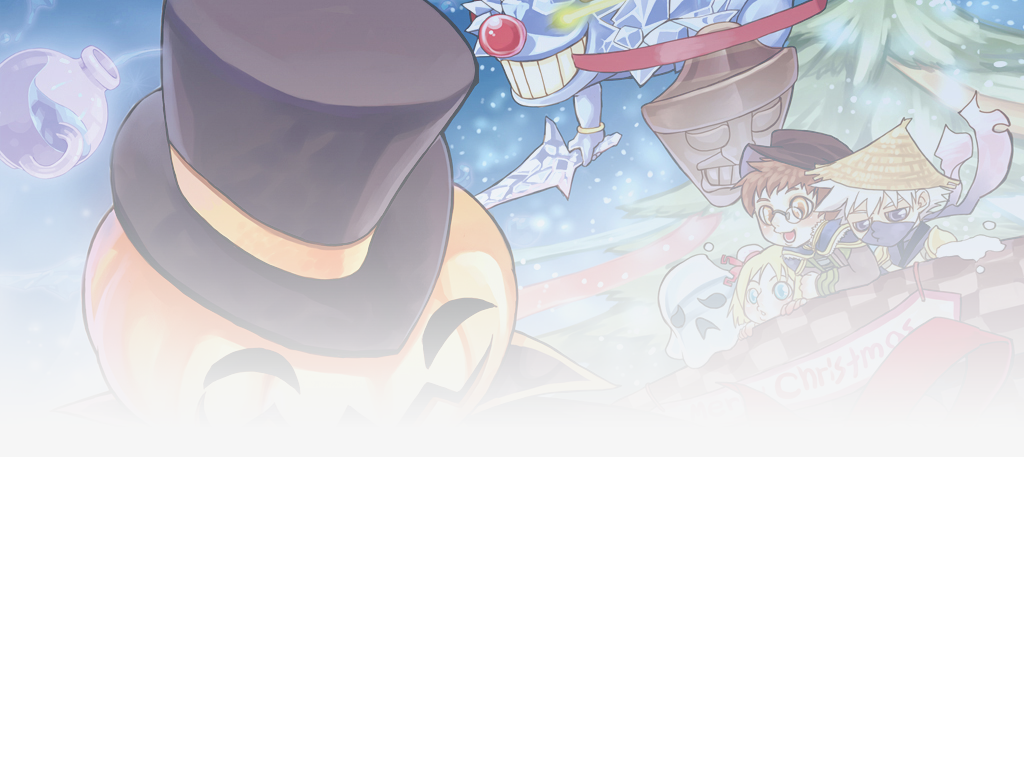
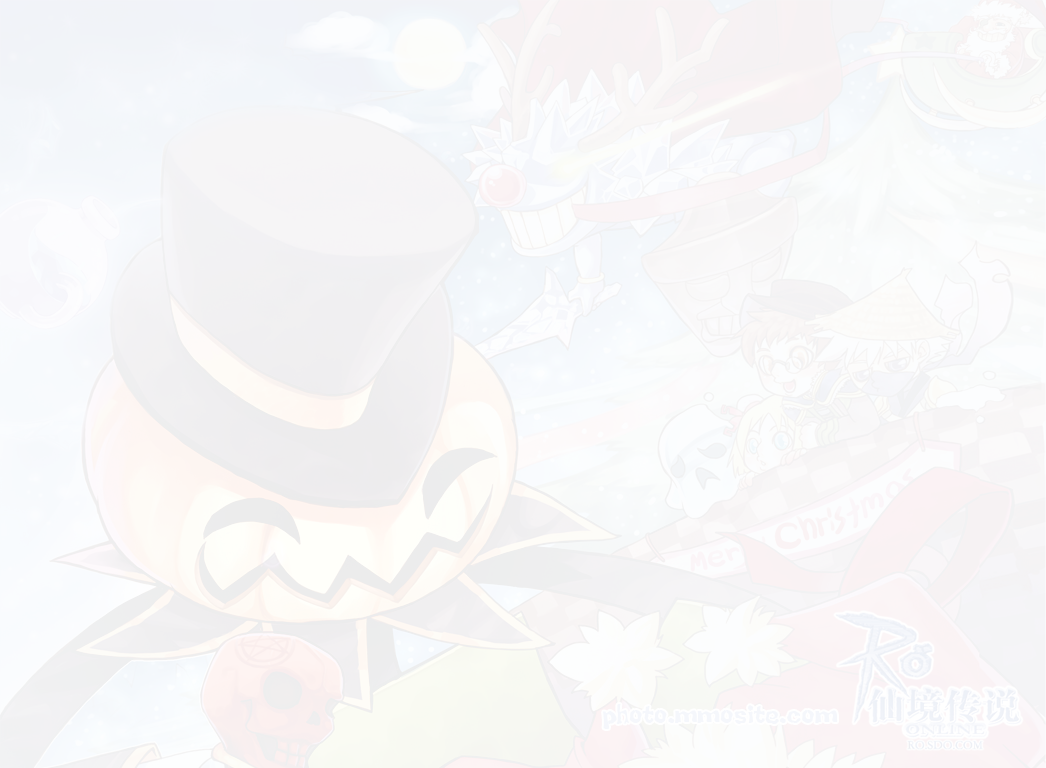
BG SUB-HEader

diff --git a/index.html b/index.html
@@ -107,9 +107,9 @@
 <!-- Page Contents -->
 <div class="pusher" id="scene">
   <div class=" ui inverted vertical masthead center aligned segment topinhocorta">
-	<img class="ui fluid image topinho regulabordas layer" data-depth="0.20" src="http://static.zerochan.net/Hunter.full.143189.jpg">
-  <img src="images/1.png" class="layer bird" data-depth="0.15"/>
-  <img src="images/2.png" class="layer bird1" data-depth="0.13"/>
+	<img class="ui fluid image topinho regulabordas layer" data-depth="0.10" src="http://static.zerochan.net/Hunter.full.143189.jpg">
+  <img src="images/1.png" class="layer bird" data-depth="1.15"/>
+  <img src="images/2.png" class="layer bird1" data-depth="1.13"/>
   <img src="images/3.png" class="layer bird2" data-depth="0.11"/>
   <img src="images/4.png" class="layer bird3" data-depth="0.09"/>
   <img src="images/5.png" class="layer bird4" data-depth="0.07"/>
@@ -175,12 +175,12 @@
 
   </div>
 
-  <div class="ui vertical stripe segment">
+  <div class="ui vertical stripe segment capinha" >
     <div class="ui middle aligned stackable grid container">
 
 	<div class="row">
         <div class="center aligned column ">
-          <h1>Novos sistemas e nova interface!</h2>
+          <h1>Novos sistemas e nova interface!</h1>
 		  <h4>Descubra novos sistemas e grandes implementações acessando nosso fórum! </h4>
         </div>
       </div>
@@ -191,20 +191,41 @@
 
 		<div class="eight wide column">
 
+<div class="ui styled accordion">
+  <div class="title active">
+    <i class="dropdown icon"></i>
+    Super Equilibrado
+  </div>
+  <div class="content active">
+    <p class="transition visible" style="display: block !important;">Possuímos o grande foco de preservar o estilo de jogo do usuário; PVE, PVP, GVG etc. Não importa o seu estilo de jogo, no factionRO é possível!</p>
+  </div>
+  <div class="title">
+    <i class="dropdown icon"></i>
+    Sistemas únicos e exclusivos
+  </div>
+  <div class="content">
+    <p class="transition hidden">Contamos com incríveis sistemas de pescaria, mineração e caça. Também possuímos sistema de quests diárias com premiações e rank!</p>
+  </div>
+  <div class="title">
+    <i class="dropdown icon"></i>
+    Interface avançada
+  </div>
+  <div class="content">
+    <p class="transition hidden">Com nossa incrível interface avançada, possuímos a mais nova BG no Brasil! Também contamos com o Livro de Grupo, uma ferramenta importante!</p>
+    <p class="transition hidden">A nova interface visa ajudar o jogador a ter um melhor desempenho em sua aventura no FactionRO.</p>
+  </div>
+    <div class="title">
+    <i class="dropdown icon"></i>
+    Equipe Capacitada
+  </div>
+  <div class="content">
+    <p class="transition hidden">Nossa equipa de desenvolvedores capacitados, tanto em desenvolvimento web como no desenvolvimento do nosso emulador, estão 24 horas analisando o que melhor podem oferecer. Afinal, temos um emulador privado!</p>
+  </div>
+</div>
 
 
 
-
-		<h3 class="ui header">Balanceado e competitivo.</h3>
-          <h4>No factionRO você encontra uma vasta gama de possibilidades. Quests, PVP com 8 modos, BG com 6 modos, rank MVP, missões diárias e muito mais!</h4>
-
-		<h3 class="ui header">Opções de Jogo</h3>
-          <h4>Curte matar MVP? Prefere fazer quests pra valer? Ou gosta daquele PVP desafiador? Não importa, o modo de jogo é você quem faz!</h4>
-
-
-		<h3 class="ui header">Equipe Avançada</h3>
-          <h4>Não apenas uma staff, mas uma equipe desenvolvedora, que inclusive possui o próprio projeto de desenvolvimento privado de emulador (jRO).</h4>
-        </div>
+		</div>
 
 		<div class="six wide right floated column">
 			<div id="videoyou" class="ui embed" data-url="https://www.youtube.com/embed/86efD2Bxtr0" data-placeholder="images/bg.jpg"></div>
@@ -215,7 +236,7 @@
       </div>
       <div class="row">
         <div class="center aligned column">
-          <a class="ui huge button">Saiba Mais!</a>
+          <a class="ui huge button">Conheça nosso projeto!</a>
         </div>
       </div>
     </div>
@@ -362,6 +383,9 @@
 
 <script src="deploy/parallax.js"></script>
 <script>
+$('.ui.accordion')
+  .accordion()
+;
  $('#popuplogin')
   .dropdown()
 ;

diff --git a/styles/styles.css b/styles/styles.css
@@ -141,6 +141,13 @@ width: 107%!important;
     top: -2%!important;
     z-index: -1;
 }
+
+.capinha{
+	background-image:url('../images/image.png')!important;
+	background-repeat:no-repeat!important;
+	background-size:100%!important;
+}
+
 .bird {
   position: absolute;
   top: 150px !important;
